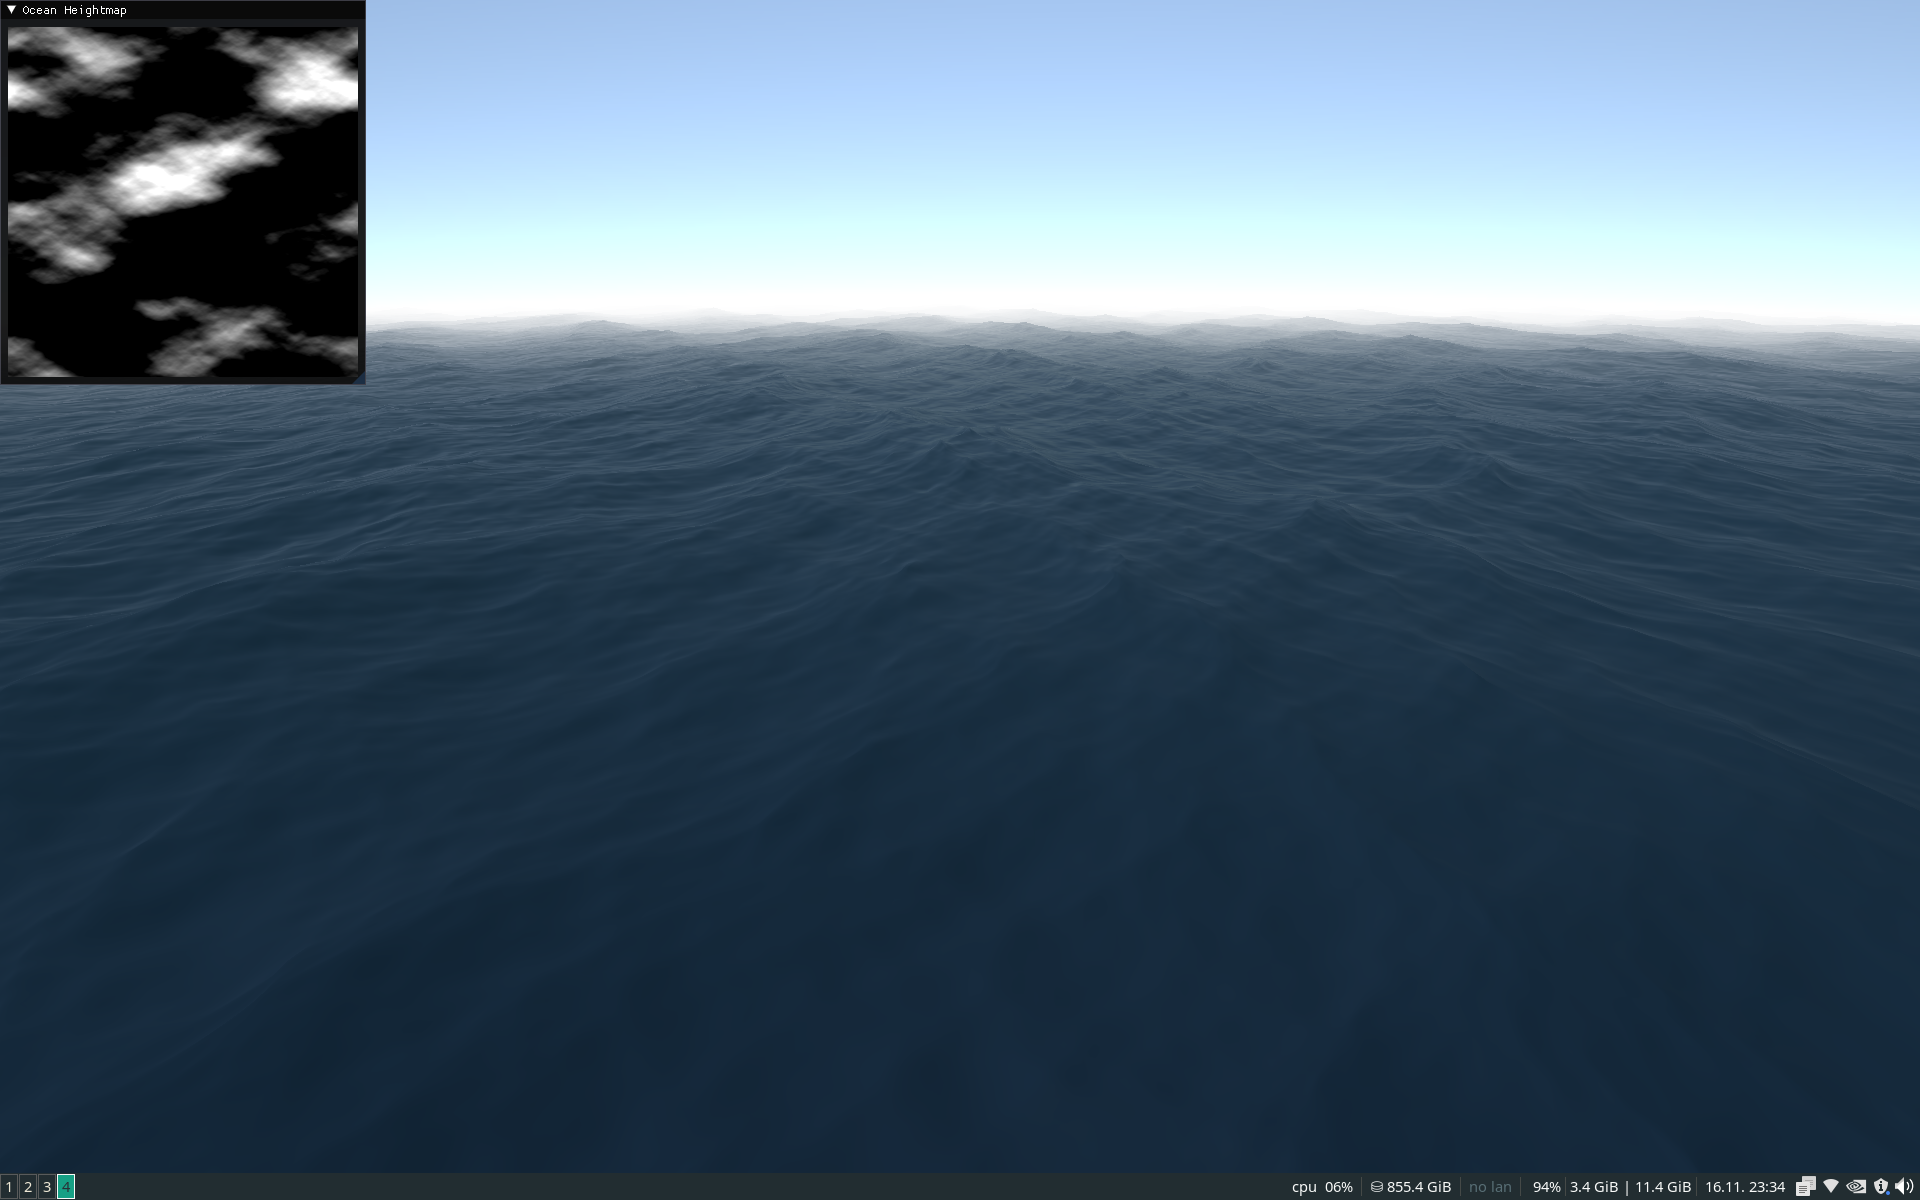
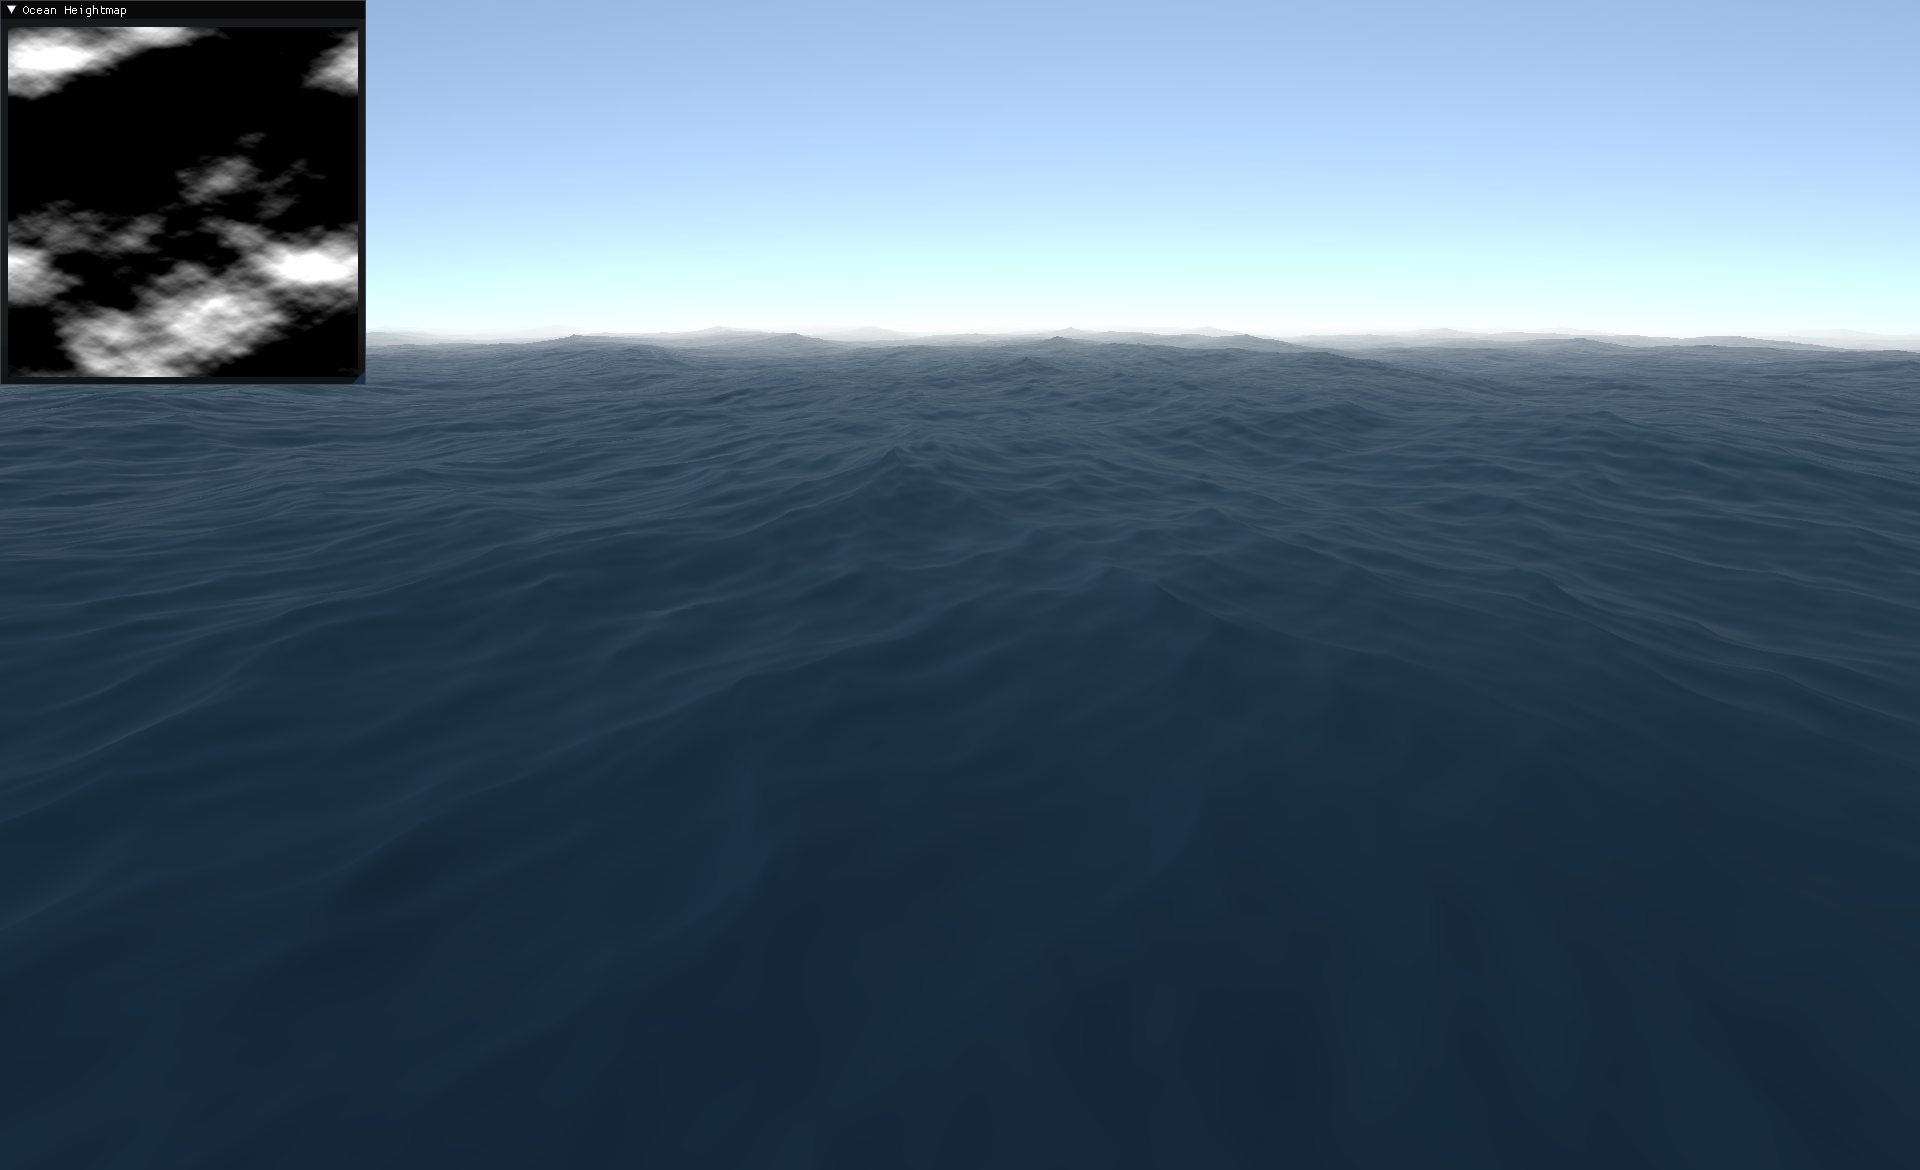
modified titlecard

Changed region(s): [[0.0, 0.0, 1.0, 0.3385], [0.6562, 0.9846, 1.0, 1.0], [0.0, 0.9846, 0.0625, 1.0]]

diff --git a/src/main.cpp b/src/main.cpp
@@ -55,10 +55,6 @@ int main(void) {
     while (!engine.windowShouldClose()) {
         camera->update();
 
-        camera->position = glm::vec3(0, 14.8254, 0);
-        camera->pitch = 14.217;
-        camera->yaw = 85.8641;
-
         if (engine.getDisplay()->isKeyDown(GLFW_KEY_C)) 
             std::cout << camera->position << ' ' << camera->pitch << ' ' << camera->yaw << std::endl;
 
